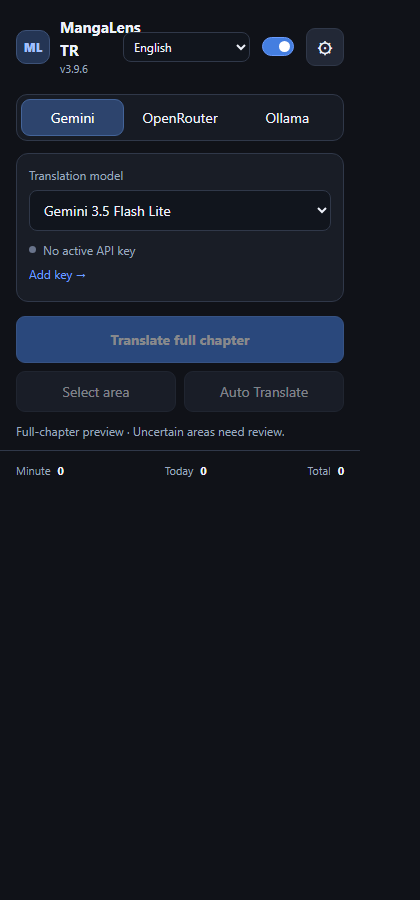
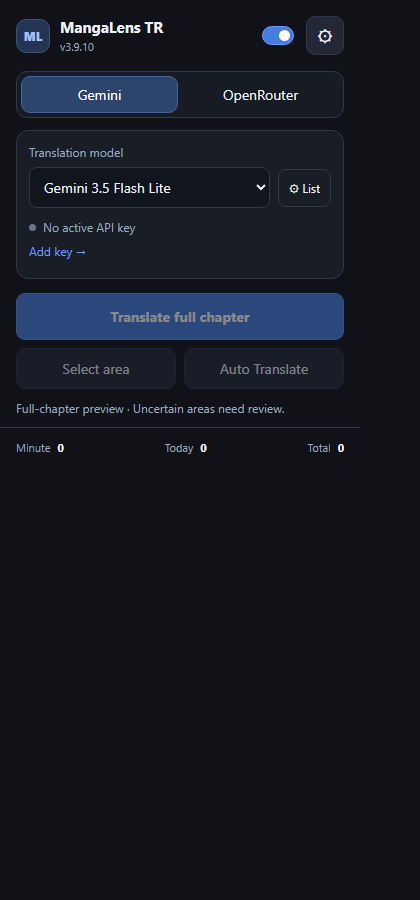
GitHub face: refresh screenshots to 3.9.10 two-provider UI, fix PR test command

diff --git a/.github/PULL_REQUEST_TEMPLATE.md b/.github/PULL_REQUEST_TEMPLATE.md
@@ -1,7 +1,7 @@
 # What changed
 
 ## How it was tested
-- [ ] `node --test tests/*.test.js` passes
+- [ ] `node --test tests/` passes
 - [ ] `package.ps1` builds the versioned ZIP
 
 ## Screenshots (if UI)
